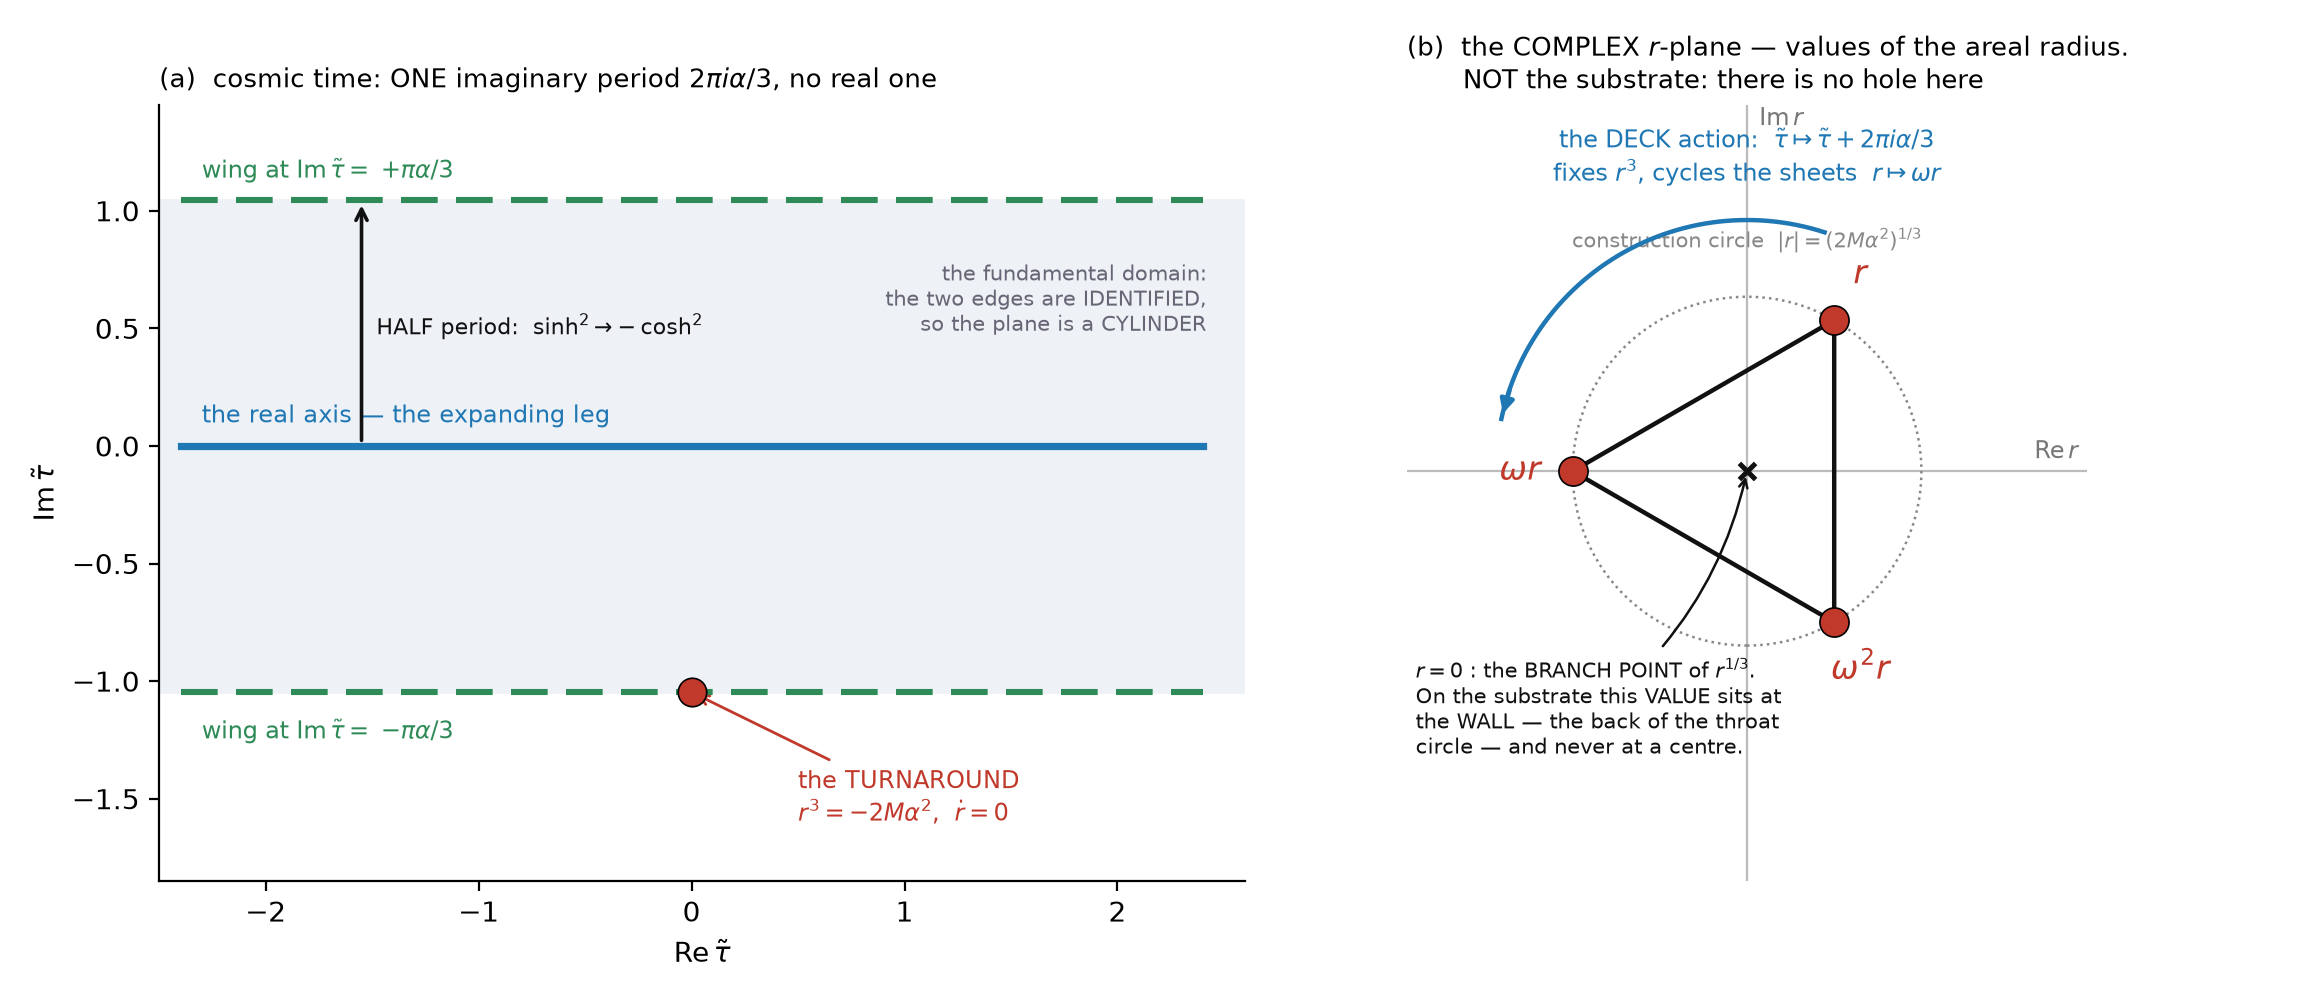
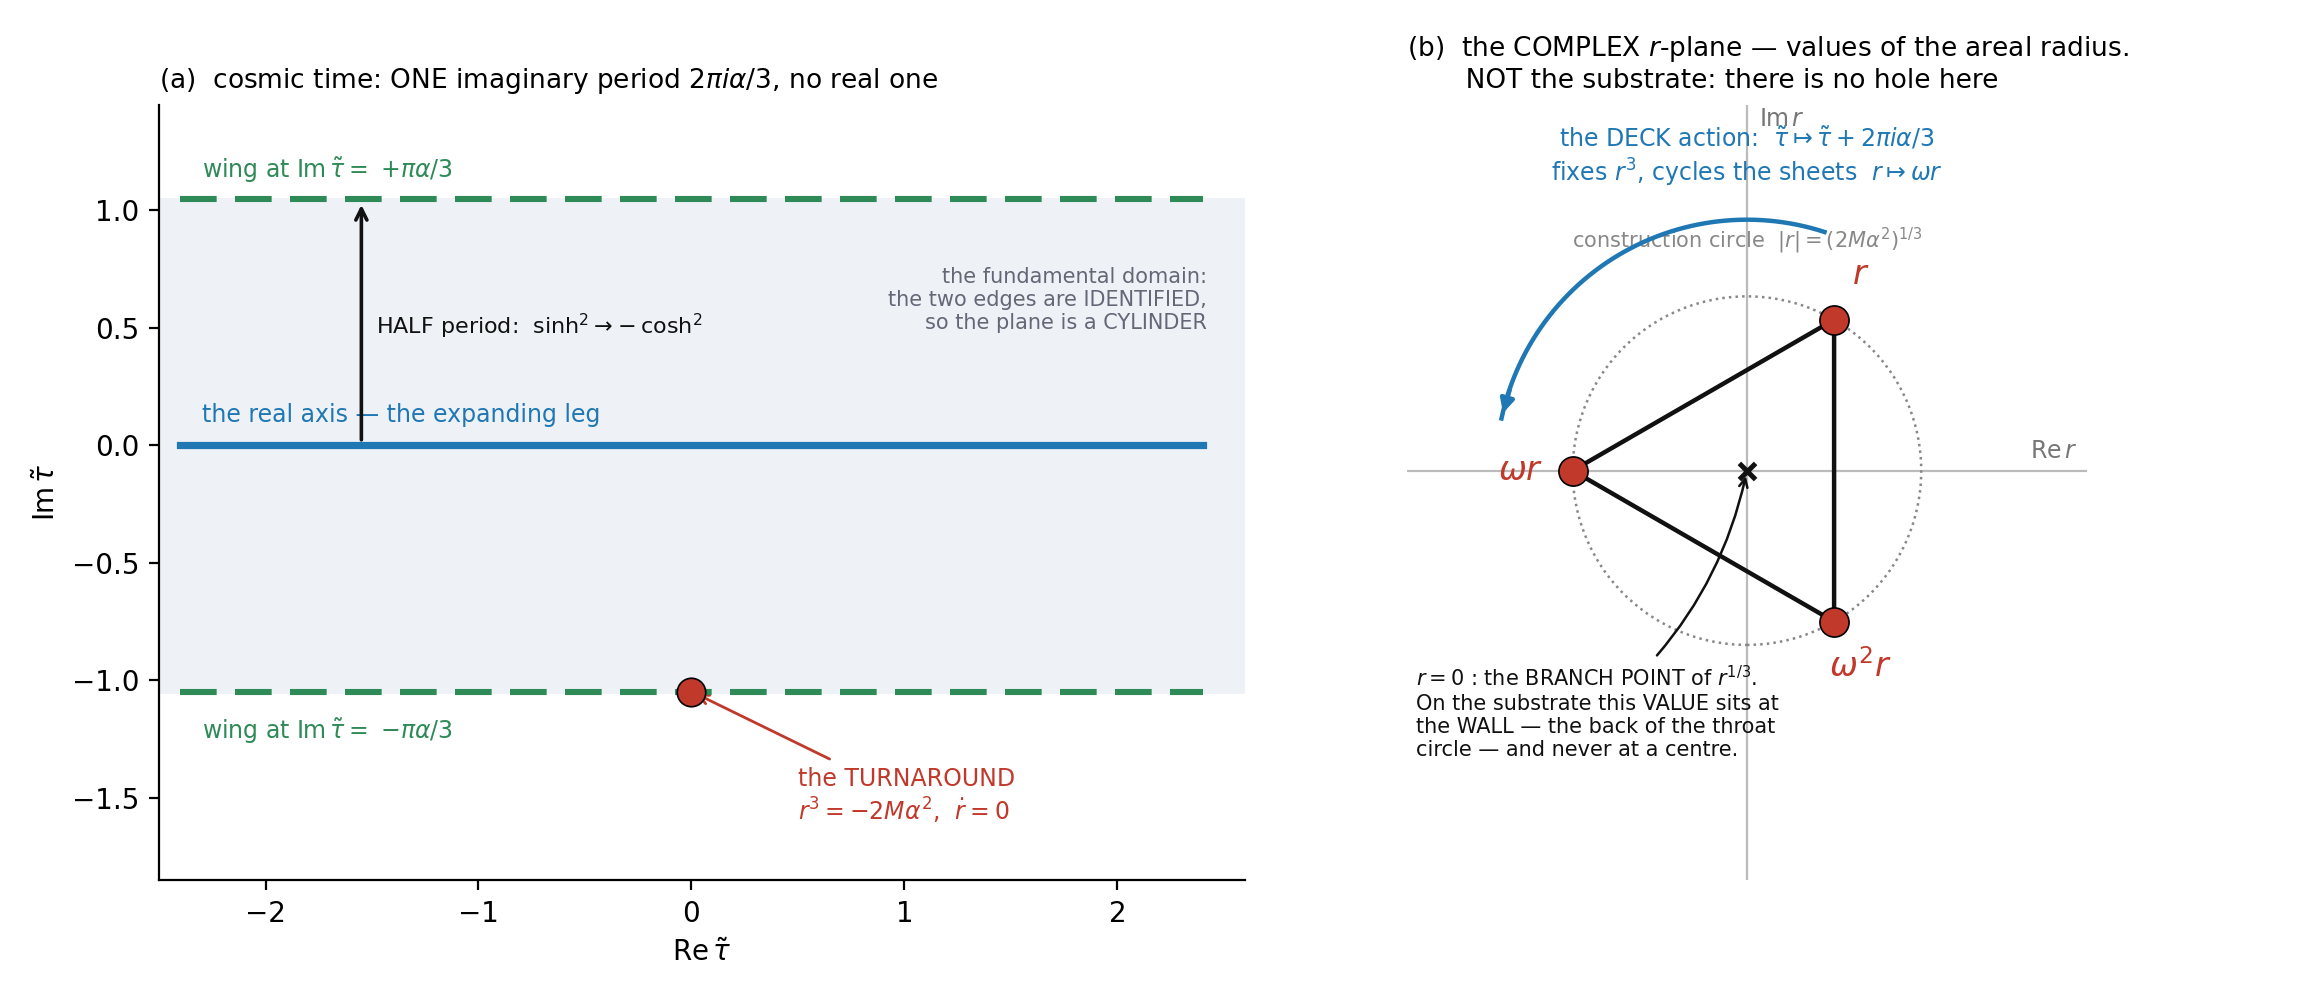
r4125 — the label/predicate defect 60 surfaced is repaired, its class swept, and the receipt failures that are 60's to merge are left alone deliberately.
THE DEFECT, AND WHY IT MATTERS MORE THAN THE ONE CHECK. B36's check ⓵ printed "the SLICING paper carries the continuation" and tested `circle`, which is P2. Label and predicate named different papers and it passed anyway, on the coincidence that P2 quoted P3's phrase. When my reach pass moved that phrase the check went red -- and the label turned out to have been right all along: the phrase is in the slicing paper, exactly where the sentence says. Predicate aligned to the label, and the reasoning recorded at the site.

A check whose label and predicate disagree is not verifying the sentence it prints. Its passing was never evidence for the claim above it, and its failing is not evidence against it either -- which is why this is a defect in the instrument rather than a finding about the corpus.

THE CLASS WAS SWEPT RATHER THAN THE INSTANCE PATCHED. Every check in the receipt tree whose label names an "X paper" was compared against which paper file its predicate actually reads. Three candidates; one real, now fixed. The other two are false positives and I record why so the next sweep does not re-open them: B42's hits are in a docstring rather than a check label, and B34's check legitimately tests P14 for a phrase that CITES the boundary paper, which its label says. B36's own sibling check is the same shape and is correct for the same reason -- the quoted sentence lives in P2 and is ABOUT the framework paper.
[…]

diff --git a/receipts/L221_the_bridge/B36_two_of_three_crossings_are_supplied.py b/receipts/L221_the_bridge/B36_two_of_three_crossings_are_supplied.py
@@ -73,12 +73,20 @@ def main():
     print("  B36 -- how much of PO-11's matching is already supplied?")
     print()
     circle = re.sub(r'\s+', ' ', body(os.path.join(ROOT, 'corpus', 'janzen_circle_v3.tex')))
+    # ⛔⛭ ** THE LABEL AND THE PREDICATE NAMED DIFFERENT PAPERS, AND IT PASSED ANYWAY -- r4125. **
+    # *Check ⓵ says "the SLICING paper carries the continuation" and tested `circle`, which is P2.
+    # It held on the coincidence that P2 QUOTED P3's phrase; when that phrase moved, the check went
+    # red and the label was the thing that had been right all along.*  ** A check whose label and
+    # predicate disagree is not verifying the sentence it prints, and it says nothing about the
+    # paper it names -- so its passing was never evidence for the claim above it. **
+    #   ⌗ *Found by 60 at r4074, surfaced by 61's reach passes moving the phrase.*
+    slicing = re.sub(r'\s+', ' ', body(os.path.join(ROOT, 'corpus', 'SdS-slicing-curve_v2.tex')))
     p14 = re.sub(r'\s+', ' ', body(os.path.join(ROOT, 'corpus', 'matter_sector_paper.tex')))
 
     # ⓵ the metric
     check('⛭⛭ ⓵ the METRIC crosses: the slicing paper carries the continuation "$C^{\\infty}$ across '
           'the locus the chart labels $r=0$ ... a branch point and not a barrier"',
-          'a branch point and not a barrier' in circle)
+          'a branch point and not a barrier' in slicing)
     check('and the framework paper "establishes that closure as a theorem"',
           'establishes that closure as a theorem' in circle)
 
